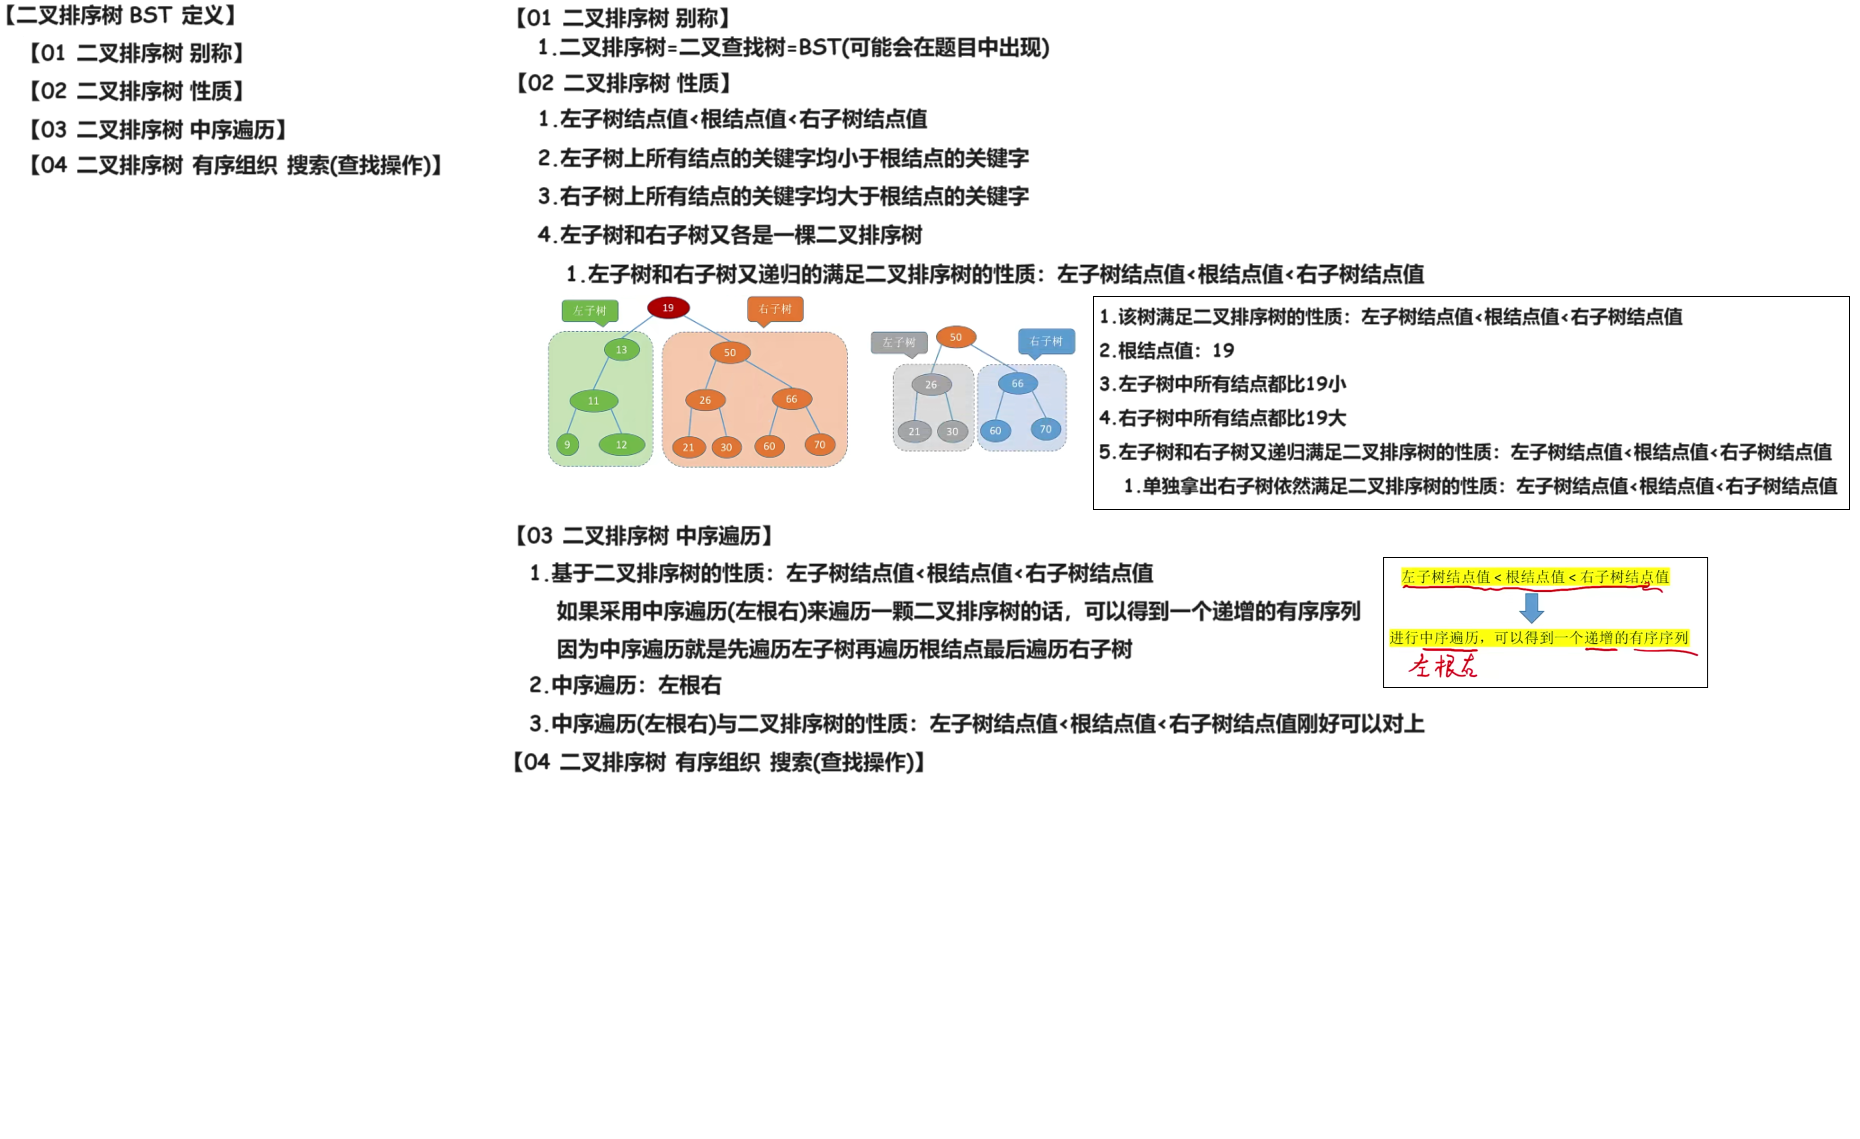
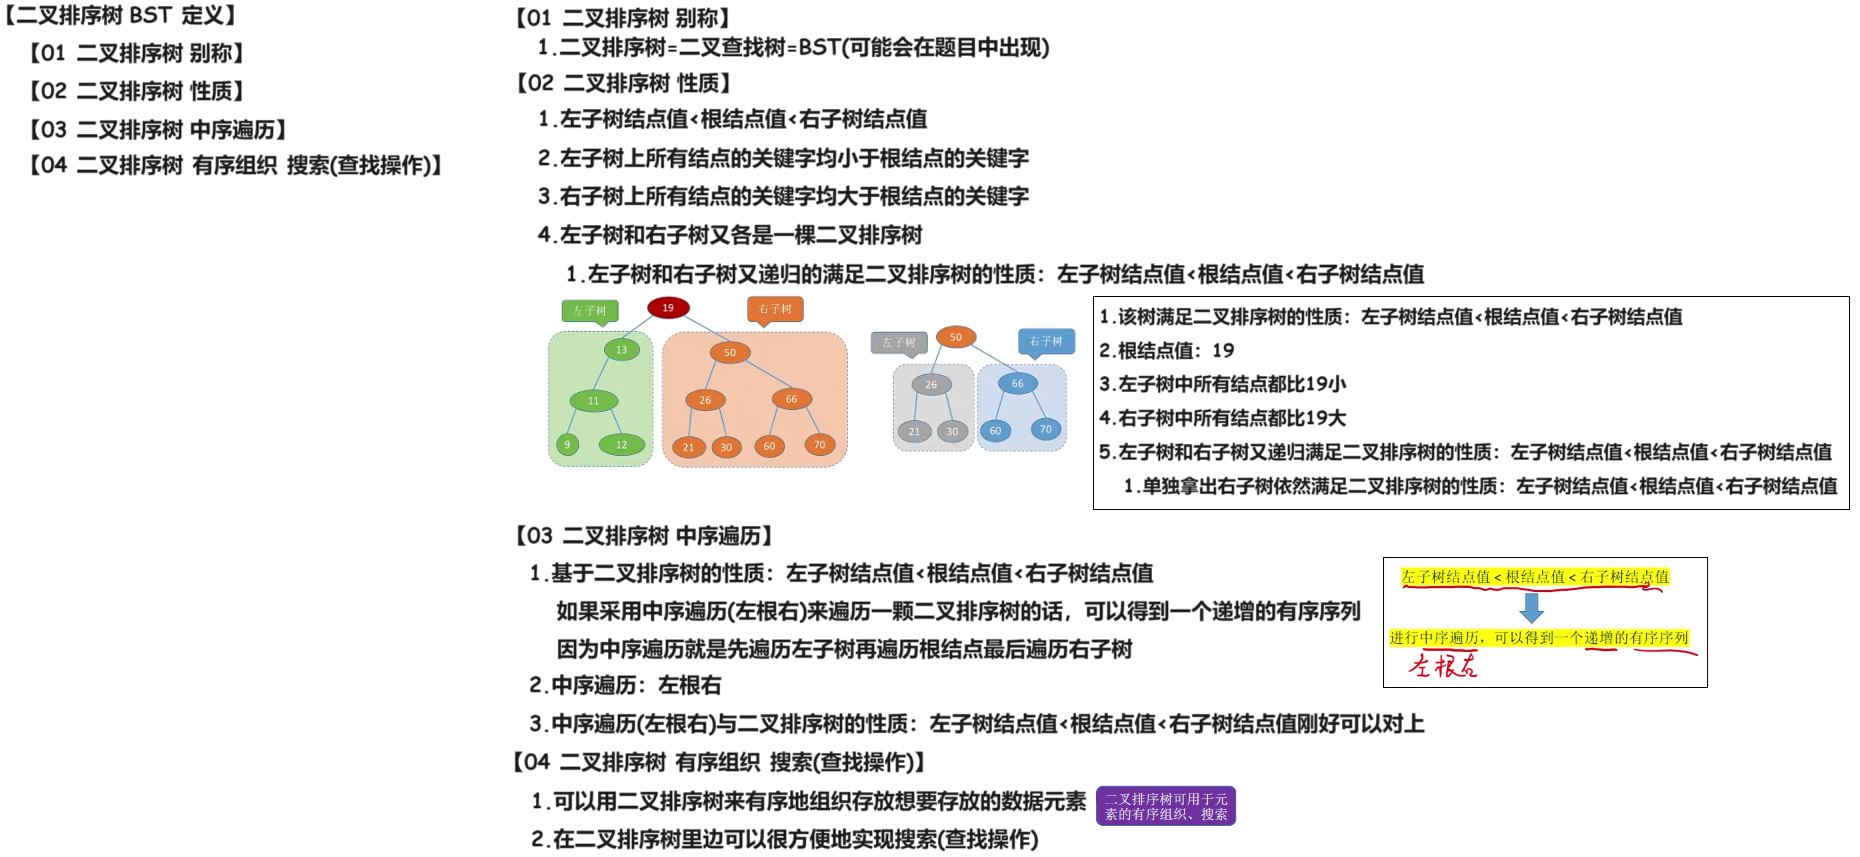
240313

Changed region(s): [[0.2806, 0.0, 0.9978, 1.0], [0.0, 0.0, 0.2495, 0.2124]]

diff --git a/02 DS/01 题集/02 专题/05 二叉排序树 BST 240313/01 王道基础/02 Doc.md b/02 DS/01 题集/02 专题/05 二叉排序树 BST 240313/01 王道基础/02 Doc.md
@@ -7,3 +7,5 @@
 <img src="https://cvp.oss-cn-shanghai.aliyuncs.com/picgo/202403132143641.png" alt="image-20240313214343576" style="zoom: 67%;" />
 
 # 02 二叉排序树 BST 定义
+
+<img src="https://cvp.oss-cn-shanghai.aliyuncs.com/picgo/202403132230204.png" alt="image-20240313223029005" style="zoom:50%;" />
